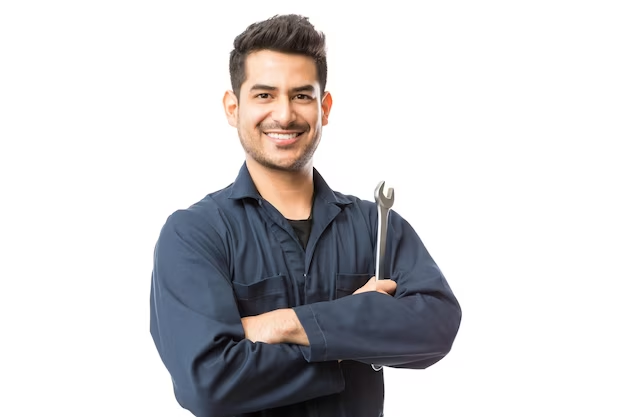
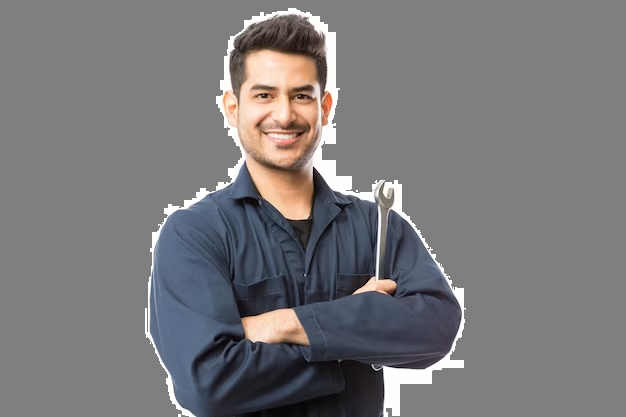
śliczna strona końcowa + wspólne zdjęcie

diff --git a/cad-fem-strona/src/main.jsx b/cad-fem-strona/src/main.jsx
@@ -3,26 +3,33 @@ import ReactDOM from 'react-dom/client'
 import './index.css'
 import People from './People.jsx'
 import Header from './Header.jsx'
+import MainPhoto from './MainPhoto.jsx'
 
 const people = [
   {
     key:0, 
-    name: "Imie", 
+    name: "Imie1", 
     lastName: "Nazwisko", 
     imageSource: "./person.png", 
-    department: "Zespół", 
+    department: "Zarząd", 
     description: "Lorem ipsum dolor sit amet"
   },
   {key:1, name: "Imie", lastName: "Nazwisko", imageSource: "./person.png", department: "Zarząd", description: "Lorem ipsum dolor sit amet"},
   {key:2, name: "Imie", lastName: "Nazwisko", imageSource: "./person.png", department: "Zarząd", description: "Lorem ipsum dolor sit amet"},
-  {key:3, name: "Jan", lastName: "Kowalski", imageSource: "./person.png", department: "Zespół", description: "Lorem ipsum dolor123 sit amet"},
-  {key:4, name: "Jan", lastName: "Kowalski", imageSource: "./person.png", department: "Zespół", description: "Lorem ipsum dolor123 sit amet"},
+  {key:3, name: "Jan1", lastName: "Kowalski", imageSource: "./person.png", department: "Promocja", description: "Lorem ipsum dolor123 sit amet"},
+  {key:4, name: "Jan", lastName: "Kowalski", imageSource: "./person.png", department: "Informatyk", description: "Lorem ipsum dolor123 sit amet"},
   {key:5, name: "Jan", lastName: "Kowalski", imageSource: "./person.png", department: "Promocja", description: "Lorem ipsum dolor123 sit amet"},
-  {key:6, name: "Jan", lastName: "Kowalski", imageSource: "./person.png", department: "Zespół", description: "Lorem ipsum dolor123 sit amet"}
+  {key:6, name: "Jan", lastName: "Kowalski", imageSource: "./person.png", department: "Informatyk", description: "Lorem ipsum dolor123 sit amet"},
+  {key:7, name: "Marian", lastName: "Kowalski", imageSource: "./person.png", department: "Członek", description: "Tylko sprząta"},
+  {key:7, name: "Marian", lastName: "Kowalski", imageSource: "./person.png", department: "Członek", description: "Tylko sprząta"},
+  {key:7, name: "Marian", lastName: "Kowalski", imageSource: "./person.png", department: "Członek", description: "Tylko sprząta"},
+  {key:7, name: "Marian", lastName: "Kowalski", imageSource: "./person.png", department: "Członek", description: "Tylko sprząta"},
+  {key:7, name: "Marian", lastName: "Kowalski", imageSource: "./person.png", department: "Członek", description: "Tylko sprząta"}
 ]
 
 ReactDOM.createRoot(document.getElementById('root')).render(
   <React.StrictMode>
+    <MainPhoto></MainPhoto>
     <People peopleList={people}/>
   </React.StrictMode>,
 )

diff --git a/cad-fem-strona/src/People.jsx b/cad-fem-strona/src/People.jsx
@@ -39,16 +39,19 @@ function DepartmentDiv({depName, peopleList})
 
 function People({peopleList})
 {
+    console.log("Wywolanie people");
     const departments = []
     const rows = []
     peopleList.forEach(person => {
         if(!departments.includes(person.department))
         {
+            console.log(person)
             const departmentList = [];
             peopleList.forEach(person2 => {
                 if(person2.department==person.department)
                 {
-                    departmentList.push(person);
+                    console.log(person)
+                    departmentList.push(person2);
                 }
             });
             rows.push(<DepartmentDiv depName={person.department} peopleList={departmentList}/>);

diff --git a/cad-fem-strona/src/people.css b/cad-fem-strona/src/people.css
@@ -5,19 +5,19 @@ section{
     display: flex;
     flex-wrap: wrap;
     justify-content: center;
+    gap: 1%;
     margin: 0% 5%;
 }
 .person img{
     margin: auto;
-    max-width: 75%;
-    max-height: 50%;
+    max-width: 100%;
+    max-height: 100%;
 }
 .person{
-    flex-basis: 33%;
+    flex-basis: 24%;
     display: flex;
     flex-direction: column;
     justify-content: center;
-    margin: auto;
     text-align: center;
     font-size: 100%;
 }
@@ -30,11 +30,11 @@ section{
 .departmentRow {
     width: 50%;
     margin: auto;
-    padding-bottom: 0;
+    margin-bottom: 1%;
 }
 .departmentRow h1{
     text-align: center;
-    margin-bottom: 20px;
+    margin-bottom: 0.3em;
 
 }
 .departmentRow hr{

diff --git a/cad-fem-strona/src/index.css b/cad-fem-strona/src/index.css
@@ -4,8 +4,8 @@
   font-weight: 400;
 
   color-scheme: light dark;
-  color: rgba(255, 255, 255, 0.87);
-  background-color: #242424;
+  color: rgba(0, 0, 0, 0.87);
+  background-color: #ffffff;
 
   font-synthesis: none;
   text-rendering: optimizeLegibility;

diff --git a/cad-fem-strona/src/MainPhoto.jsx b/cad-fem-strona/src/MainPhoto.jsx
@@ -1,0 +1,10 @@
+import "./MainPhoto.css"
+function MainPhoto()
+{
+    return (
+        <div className="mainPhotoDiv">
+            <img src="mechanicy.png"></img>
+        </div>
+    )
+}
+export default MainPhoto;

diff --git a/cad-fem-strona/src/MainPhoto.css b/cad-fem-strona/src/MainPhoto.css
@@ -1,0 +1,9 @@
+.mainPhotoDiv{
+    display: flex;
+    justify-content: center;
+}
+
+.mainPhotoDiv img{
+    max-width: 40%;
+    margin: auto;
+}
